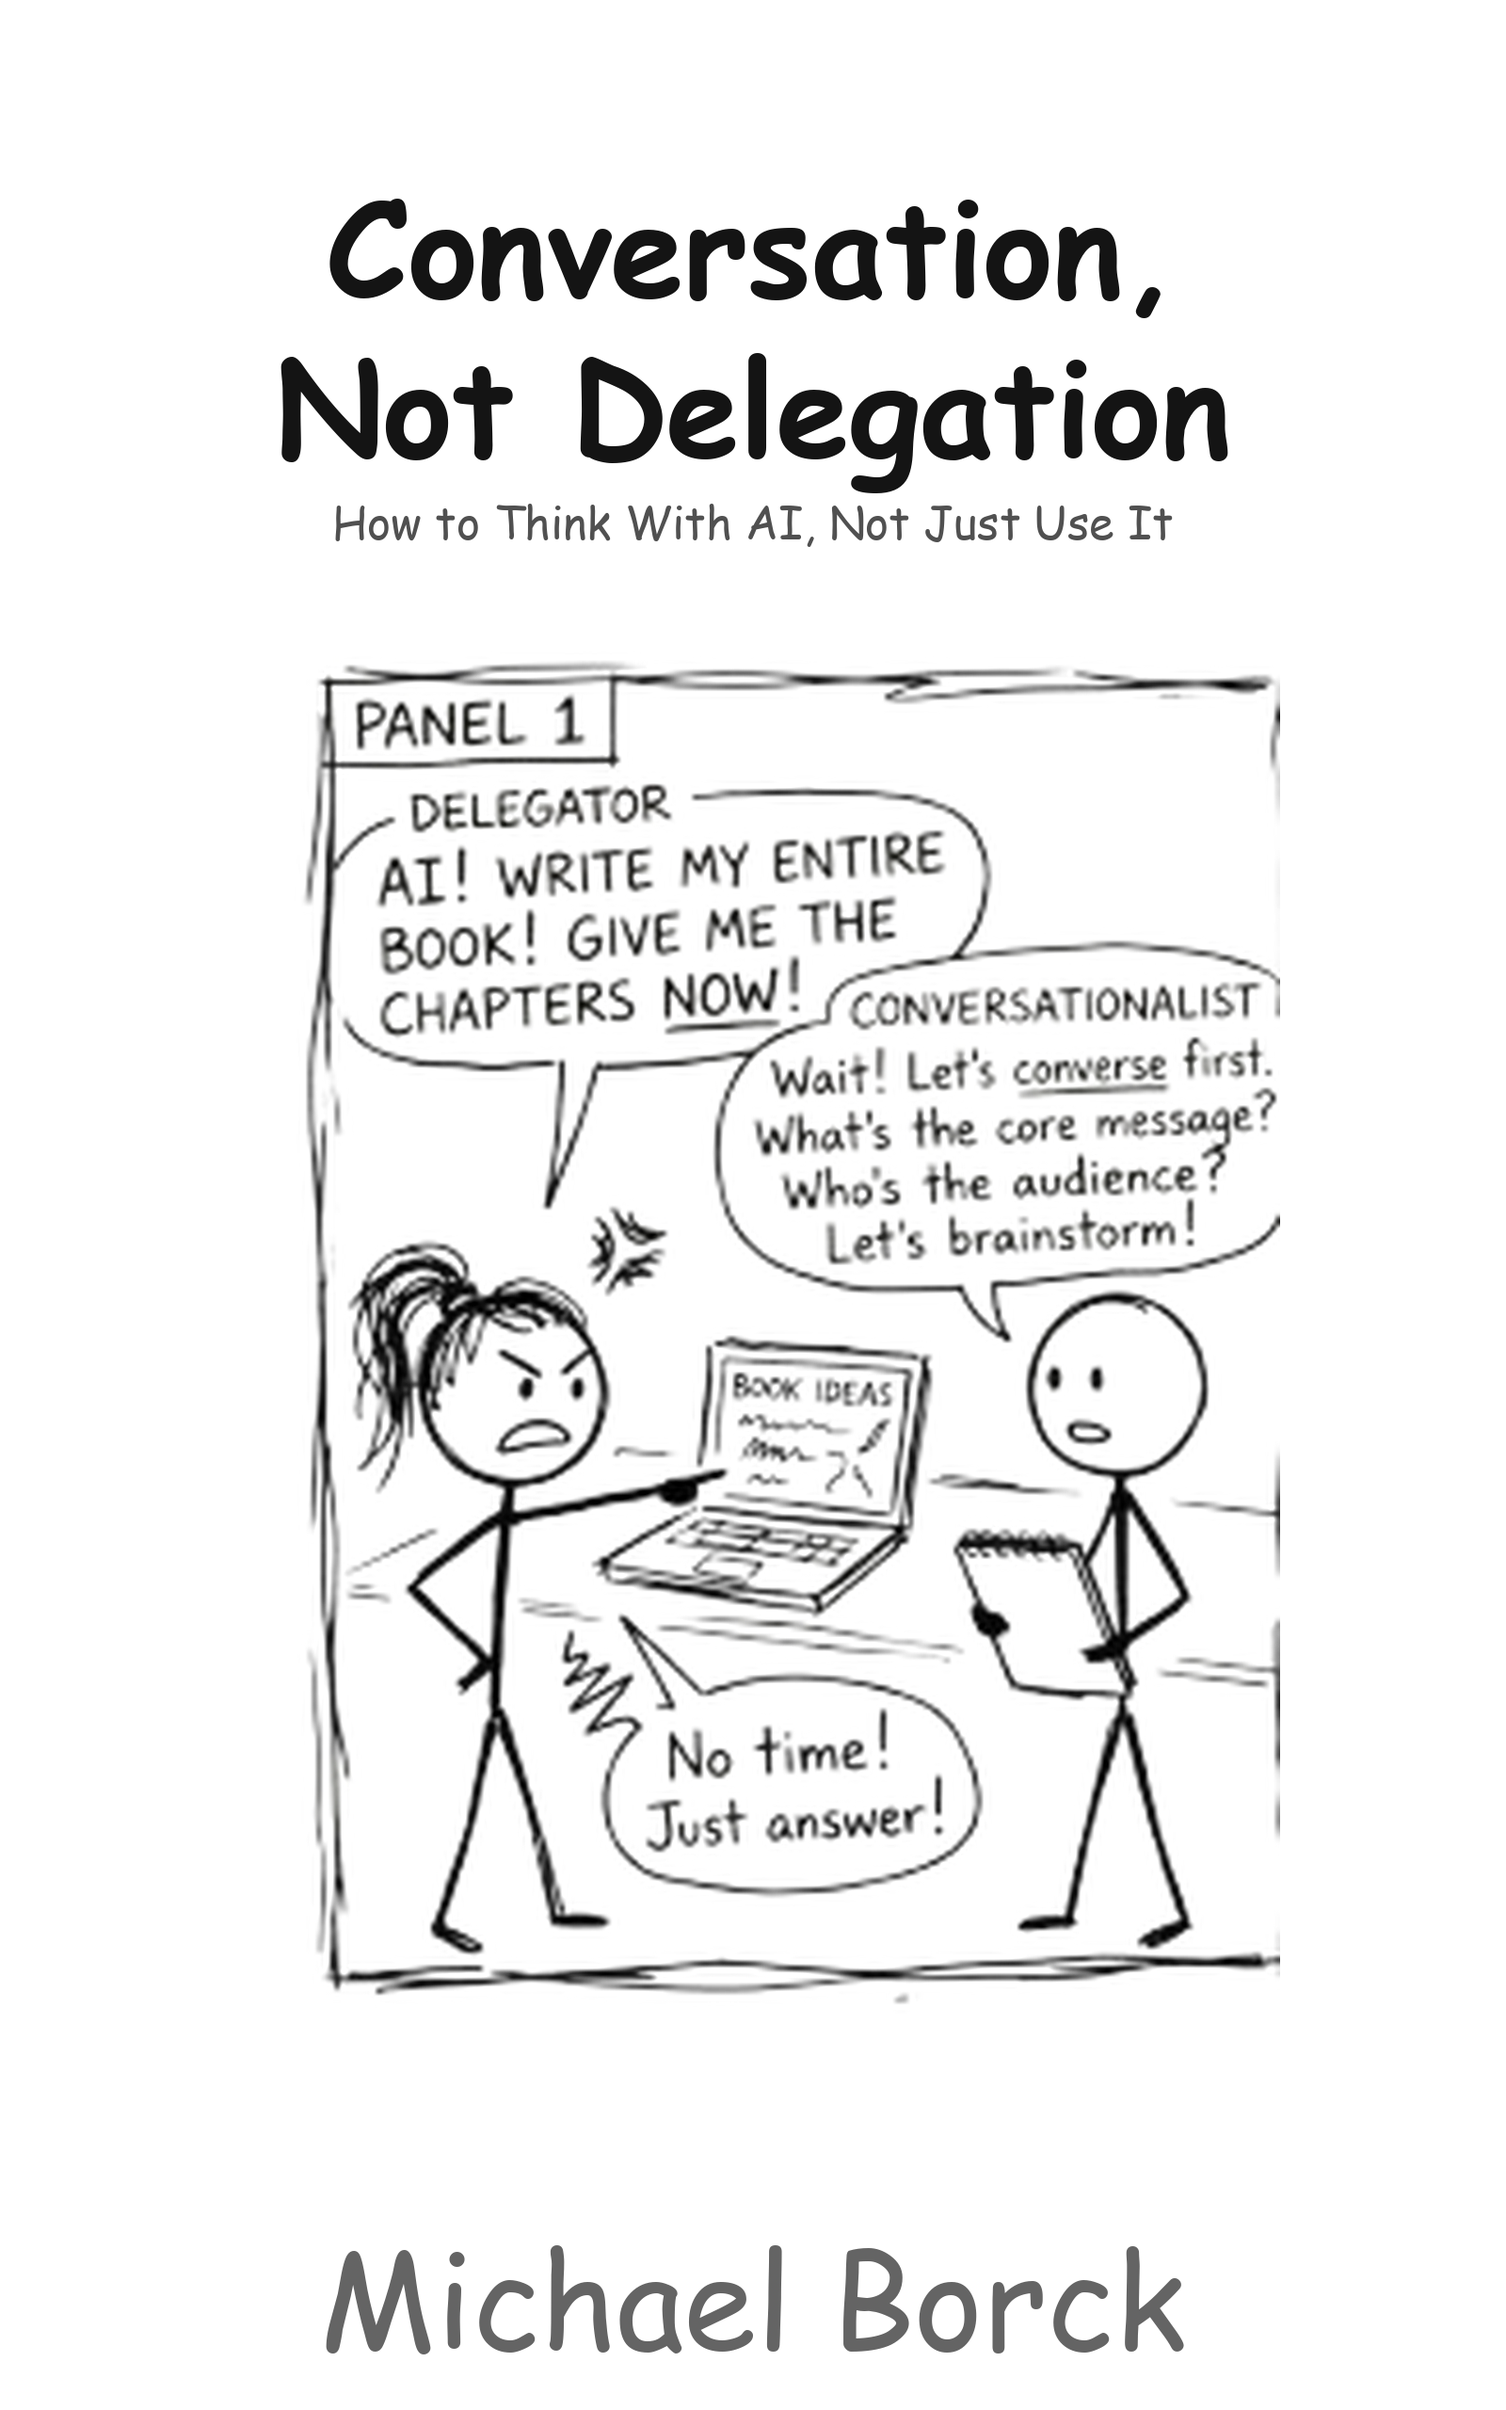
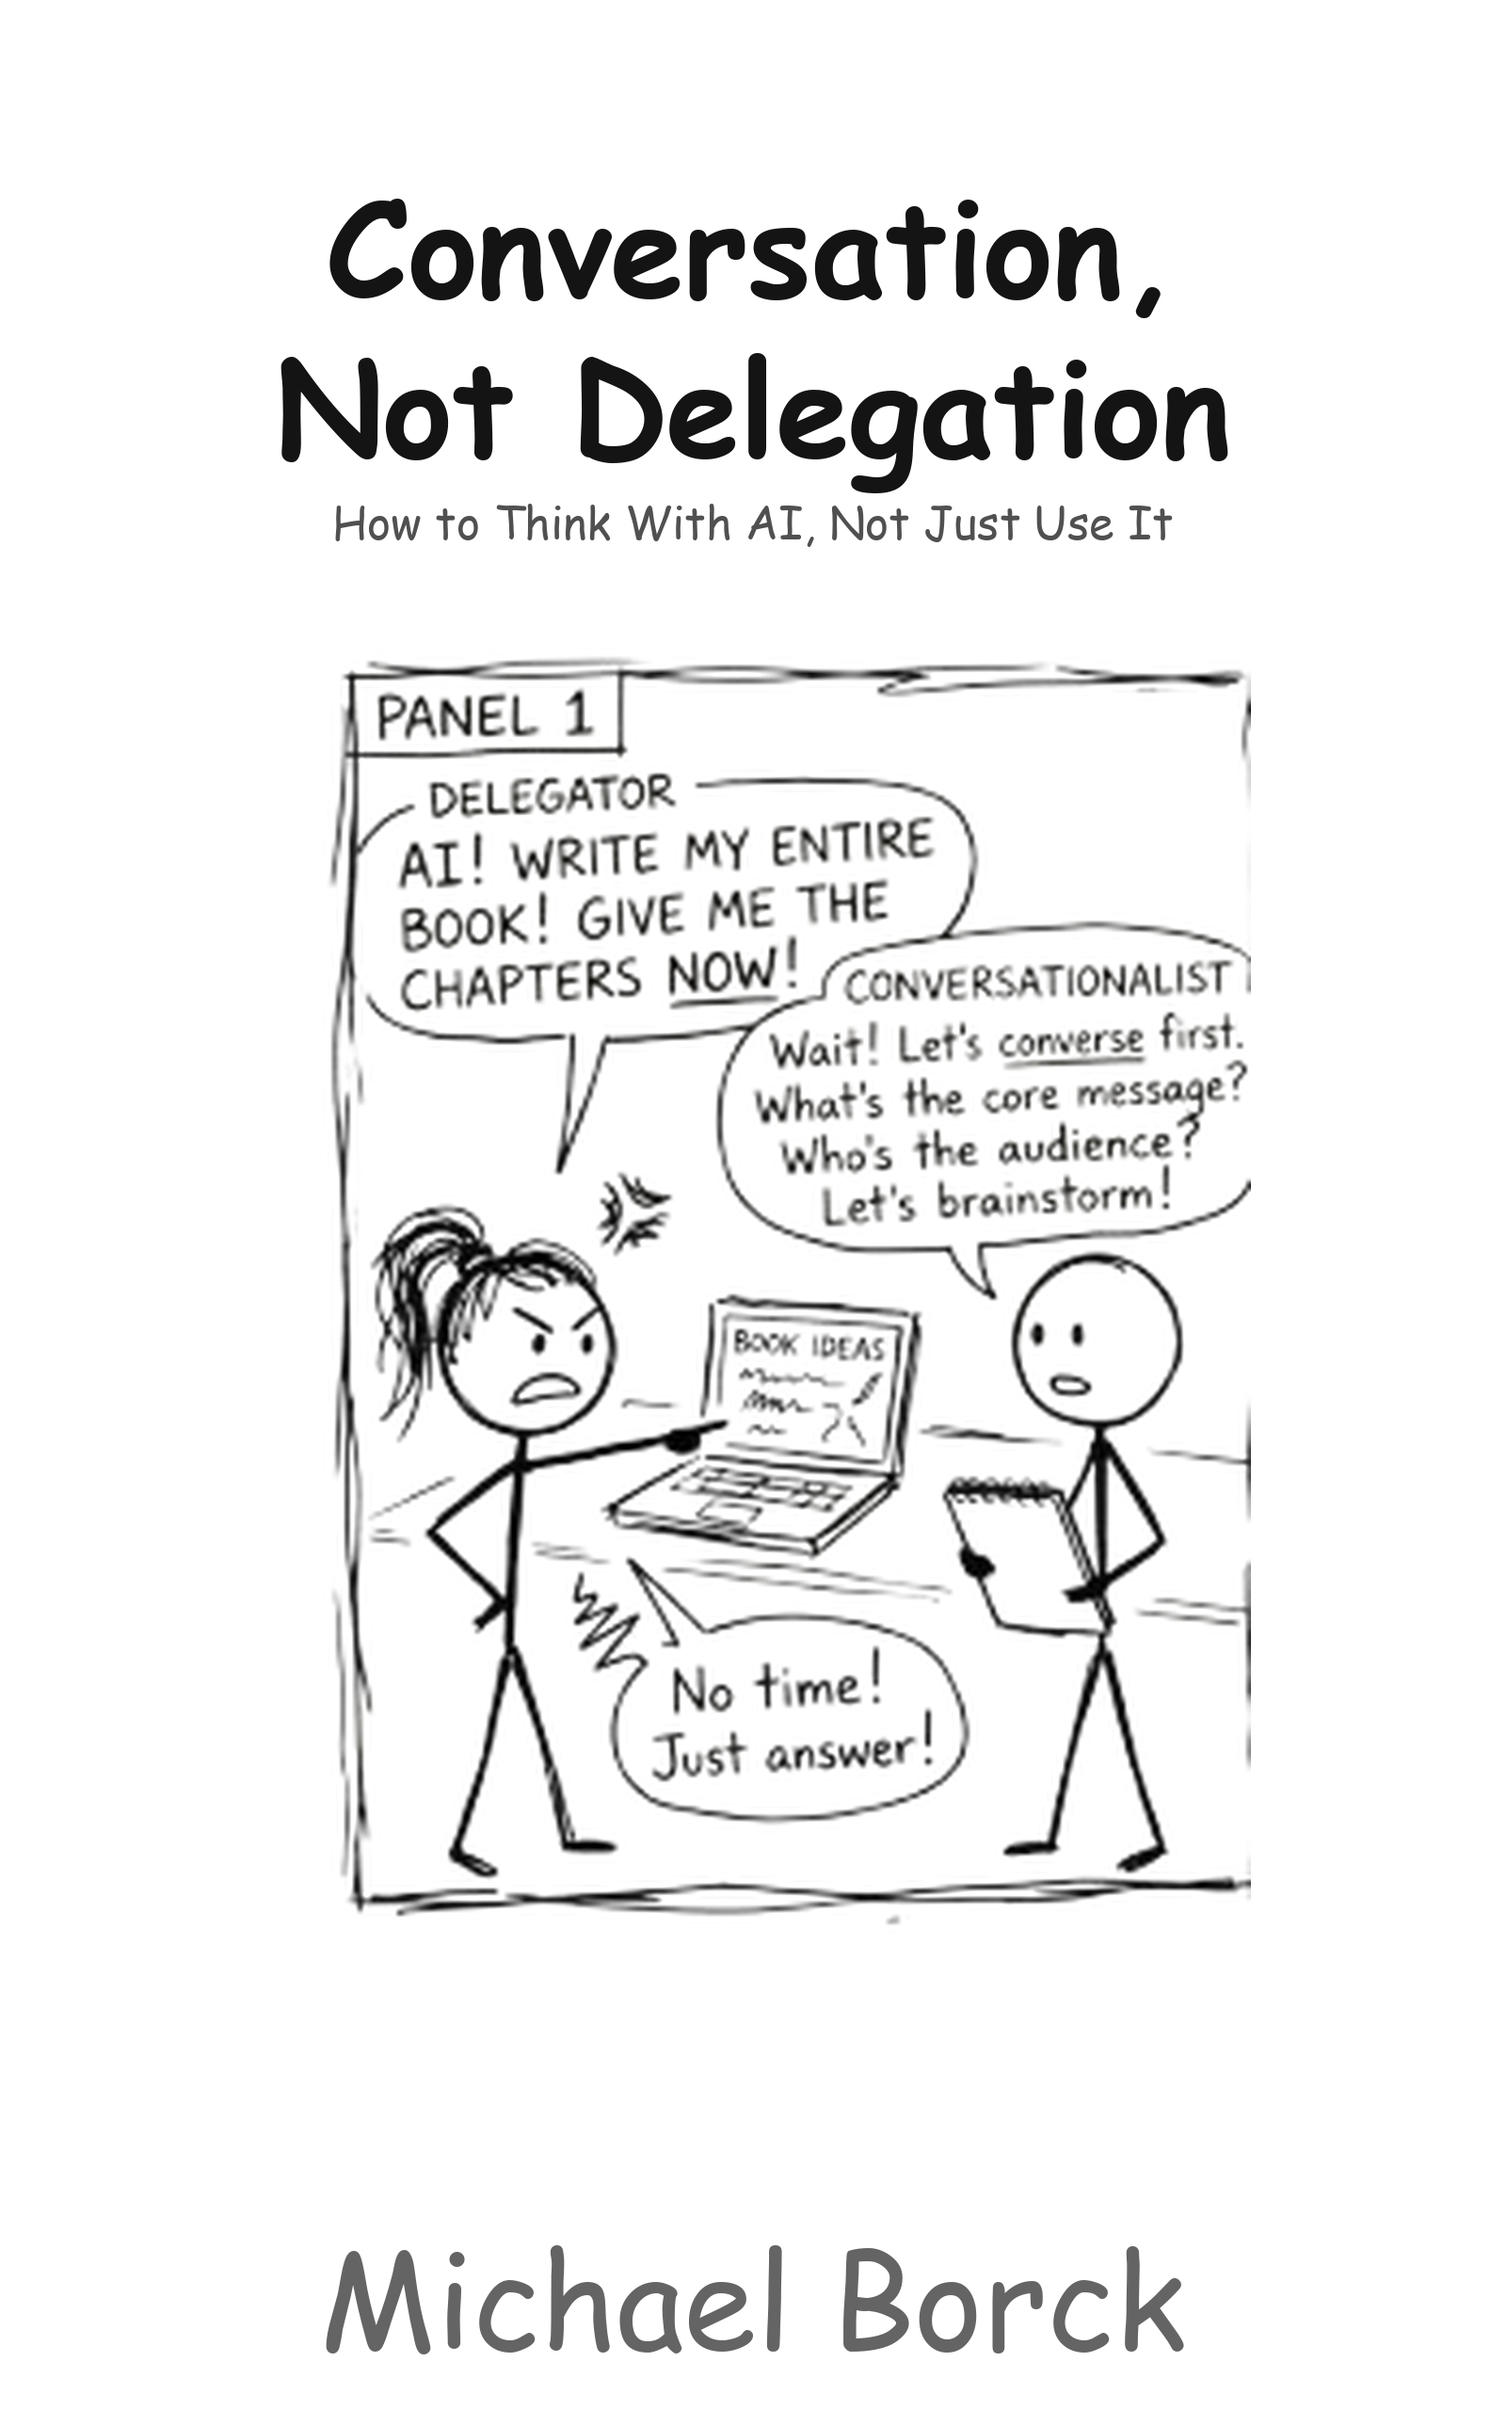
Update book content and regenerate build artifacts

Changed region(s): [[0.1875, 0.25, 0.875, 0.8438]]

diff --git a/tools/create_cover_v2.py b/tools/create_cover_v2.py
@@ -1,0 +1,196 @@
+#!/usr/bin/env python3
+"""
+Generate a polished KDP ebook cover for 'Conversation, Not Delegation'.
+
+Dark background, clean typography, comic panel with rounded frame.
+Matches the borck.education brand aesthetic.
+
+Output: images/cover-v2.png (1600 x 2560 px, KDP ebook standard portrait)
+"""
+
+from pathlib import Path
+from PIL import Image, ImageDraw, ImageFont, ImageFilter
+
+WIDTH = 1600
+HEIGHT = 2560
+
+PROJECT_ROOT = Path(__file__).resolve().parent.parent
+COMIC_PATH = PROJECT_ROOT / "images" / "comic-strip" / "00-panel1.png"
+OUTPUT_PATH = PROJECT_ROOT / "images" / "cover-v2.png"
+
+# Colours — dark theme matching borck.education
+BG_COLOUR = (10, 10, 11)           # --black
+CARD_BG = (22, 22, 26)             # --gray-5
+CARD_BORDER = (30, 30, 35)         # --gray-4 ish
+ACCENT = (34, 197, 94)             # --accent green
+ACCENT_DIM = (5, 46, 22)           # --accent-low
+WHITE = (232, 230, 227)            # --white
+GRAY_1 = (154, 154, 158)           # --gray-1
+GRAY_2 = (94, 94, 99)             # --gray-2
+
+
+def get_font(size, bold=False):
+    """Try DM Sans first, then system fonts."""
+    dm_sans_paths = [
+        Path.home() / "Library/Fonts/DMSans-Bold.ttf",
+        Path.home() / "Library/Fonts/DMSans-Regular.ttf",
+        Path.home() / "Library/Fonts/DM_Sans/DMSans-Bold.ttf",
+        Path.home() / "Library/Fonts/DM_Sans/DMSans-Regular.ttf",
+    ]
+    system_paths = [
+        "/System/Library/Fonts/Helvetica.ttc",
+        "/Library/Fonts/Arial.ttf",
+        "/usr/share/fonts/truetype/dejavu/DejaVuSans.ttf",
+    ]
+    bold_system = [
+        "/System/Library/Fonts/Helvetica.ttc",
+        "/Library/Fonts/Arial Bold.ttf",
+        "/usr/share/fonts/truetype/dejavu/DejaVuSans-Bold.ttf",
+    ]
+
+    # Try DM Sans first
+    for p in dm_sans_paths:
+        if p.exists():
+            try:
+                return ImageFont.truetype(str(p), size)
+            except OSError:
+                continue
+
+    # Fall back to system fonts
+    paths = bold_system if bold else system_paths
+    for path in paths:
+        if Path(path).exists():
+            try:
+                return ImageFont.truetype(path, size, index=1 if bold and path.endswith(".ttc") else 0)
+            except (OSError, IndexError):
+                try:
+                    return ImageFont.truetype(path, size)
+                except OSError:
+                    continue
+    return ImageFont.load_default()
+
+
+def text_width(draw, text, font):
+    bbox = draw.textbbox((0, 0), text, font=font)
+    return bbox[2] - bbox[0]
+
+
+def draw_rounded_rect(draw, xy, radius, fill=None, outline=None, width=1):
+    """Draw a rounded rectangle."""
+    x0, y0, x1, y1 = xy
+    draw.rounded_rectangle(xy, radius=radius, fill=fill, outline=outline, width=width)
+
+
+def main():
+    img = Image.new("RGB", (WIDTH, HEIGHT), BG_COLOUR)
+    draw = ImageDraw.Draw(img)
+
+    # Subtle radial glow behind the comic area
+    glow = Image.new("RGB", (WIDTH, HEIGHT), BG_COLOUR)
+    glow_draw = ImageDraw.Draw(glow)
+    cx, cy = WIDTH // 2, HEIGHT // 2 - 100
+    for r in range(400, 0, -2):
+        alpha = int(15 * (r / 400))
+        colour = (ACCENT_DIM[0] + alpha, ACCENT_DIM[1] + alpha, ACCENT_DIM[2] + alpha)
+        glow_draw.ellipse(
+            [cx - r * 2, cy - r * 2, cx + r * 2, cy + r * 2],
+            fill=colour
+        )
+    glow = glow.filter(ImageFilter.GaussianBlur(radius=80))
+    img = Image.composite(glow, img, glow.convert("L"))
+    draw = ImageDraw.Draw(img)
+
+    # Fonts
+    title_font = get_font(120, bold=True)
+    subtitle_font = get_font(48)
+    author_font = get_font(44)
+    tag_font = get_font(28)
+
+    # Top accent line
+    line_y = 200
+    line_w = 120
+    draw.rounded_rectangle(
+        [(WIDTH - line_w) // 2, line_y, (WIDTH + line_w) // 2, line_y + 4],
+        radius=2, fill=ACCENT
+    )
+
+    # Title
+    y = 260
+    for line in ["Conversation,", "Not Delegation"]:
+        w = text_width(draw, line, title_font)
+        draw.text(((WIDTH - w) // 2, y), line, fill=WHITE, font=title_font)
+        y += 140
+
+    # Subtitle
+    subtitle = "How to Think With AI, Not Just Use It"
+    sw = text_width(draw, subtitle, subtitle_font)
+    draw.text(((WIDTH - sw) // 2, y + 30), subtitle, fill=GRAY_1, font=subtitle_font)
+
+    # Comic panel — framed in a card-style container
+    comic = Image.open(COMIC_PATH).convert("RGBA")
+
+    # Scale comic
+    card_padding = 40
+    card_margin = 120
+    max_comic_w = WIDTH - (card_margin * 2) - (card_padding * 2)
+    max_comic_h = 1100
+
+    ratio = min(max_comic_w / comic.width, max_comic_h / comic.height)
+    new_w = int(comic.width * ratio)
+    new_h = int(comic.height * ratio)
+    comic = comic.resize((new_w, new_h), Image.LANCZOS)
+
+    # Card background
+    card_x0 = (WIDTH - new_w - card_padding * 2) // 2
+    card_y0 = 680
+    card_x1 = card_x0 + new_w + card_padding * 2
+    card_y1 = card_y0 + new_h + card_padding * 2
+
+    draw_rounded_rect(draw, (card_x0, card_y0, card_x1, card_y1),
+                      radius=20, fill=CARD_BG, outline=CARD_BORDER, width=2)
+
+    # Paste comic (white background for the comic itself)
+    comic_x = card_x0 + card_padding
+    comic_y = card_y0 + card_padding
+
+    # Create white background for comic area
+    comic_bg = Image.new("RGB", (new_w, new_h), (255, 255, 255))
+    if comic.mode == "RGBA":
+        comic_bg.paste(comic, mask=comic.split()[3])
+    else:
+        comic_bg.paste(comic)
+    img.paste(comic_bg, (comic_x, comic_y))
+
+    # Accent tag below comic
+    tag_text = "A methodology for thinking with AI"
+    tw = text_width(draw, tag_text, tag_font)
+    tag_pad_h = 12
+    tag_pad_w = 24
+    tag_x = (WIDTH - tw - tag_pad_w * 2) // 2
+    tag_y = card_y1 + 40
+    draw_rounded_rect(
+        draw,
+        (tag_x, tag_y, tag_x + tw + tag_pad_w * 2, tag_y + 28 + tag_pad_h * 2),
+        radius=20, fill=ACCENT_DIM, outline=ACCENT, width=1
+    )
+    draw.text((tag_x + tag_pad_w, tag_y + tag_pad_h), tag_text, fill=ACCENT, font=tag_font)
+
+    # Author
+    author = "Michael Borck"
+    aw = text_width(draw, author, author_font)
+    draw.text(((WIDTH - aw) // 2, HEIGHT - 180), author, fill=GRAY_2, font=author_font)
+
+    # Bottom accent line
+    draw.rounded_rectangle(
+        [(WIDTH - line_w) // 2, HEIGHT - 100, (WIDTH + line_w) // 2, HEIGHT - 96],
+        radius=2, fill=ACCENT
+    )
+
+    # Save
+    img.save(OUTPUT_PATH, "PNG", dpi=(300, 300))
+    print(f"Cover saved to: {OUTPUT_PATH}")
+    print(f"Dimensions: {WIDTH} x {HEIGHT} px")
+
+
+if __name__ == "__main__":
+    main()
